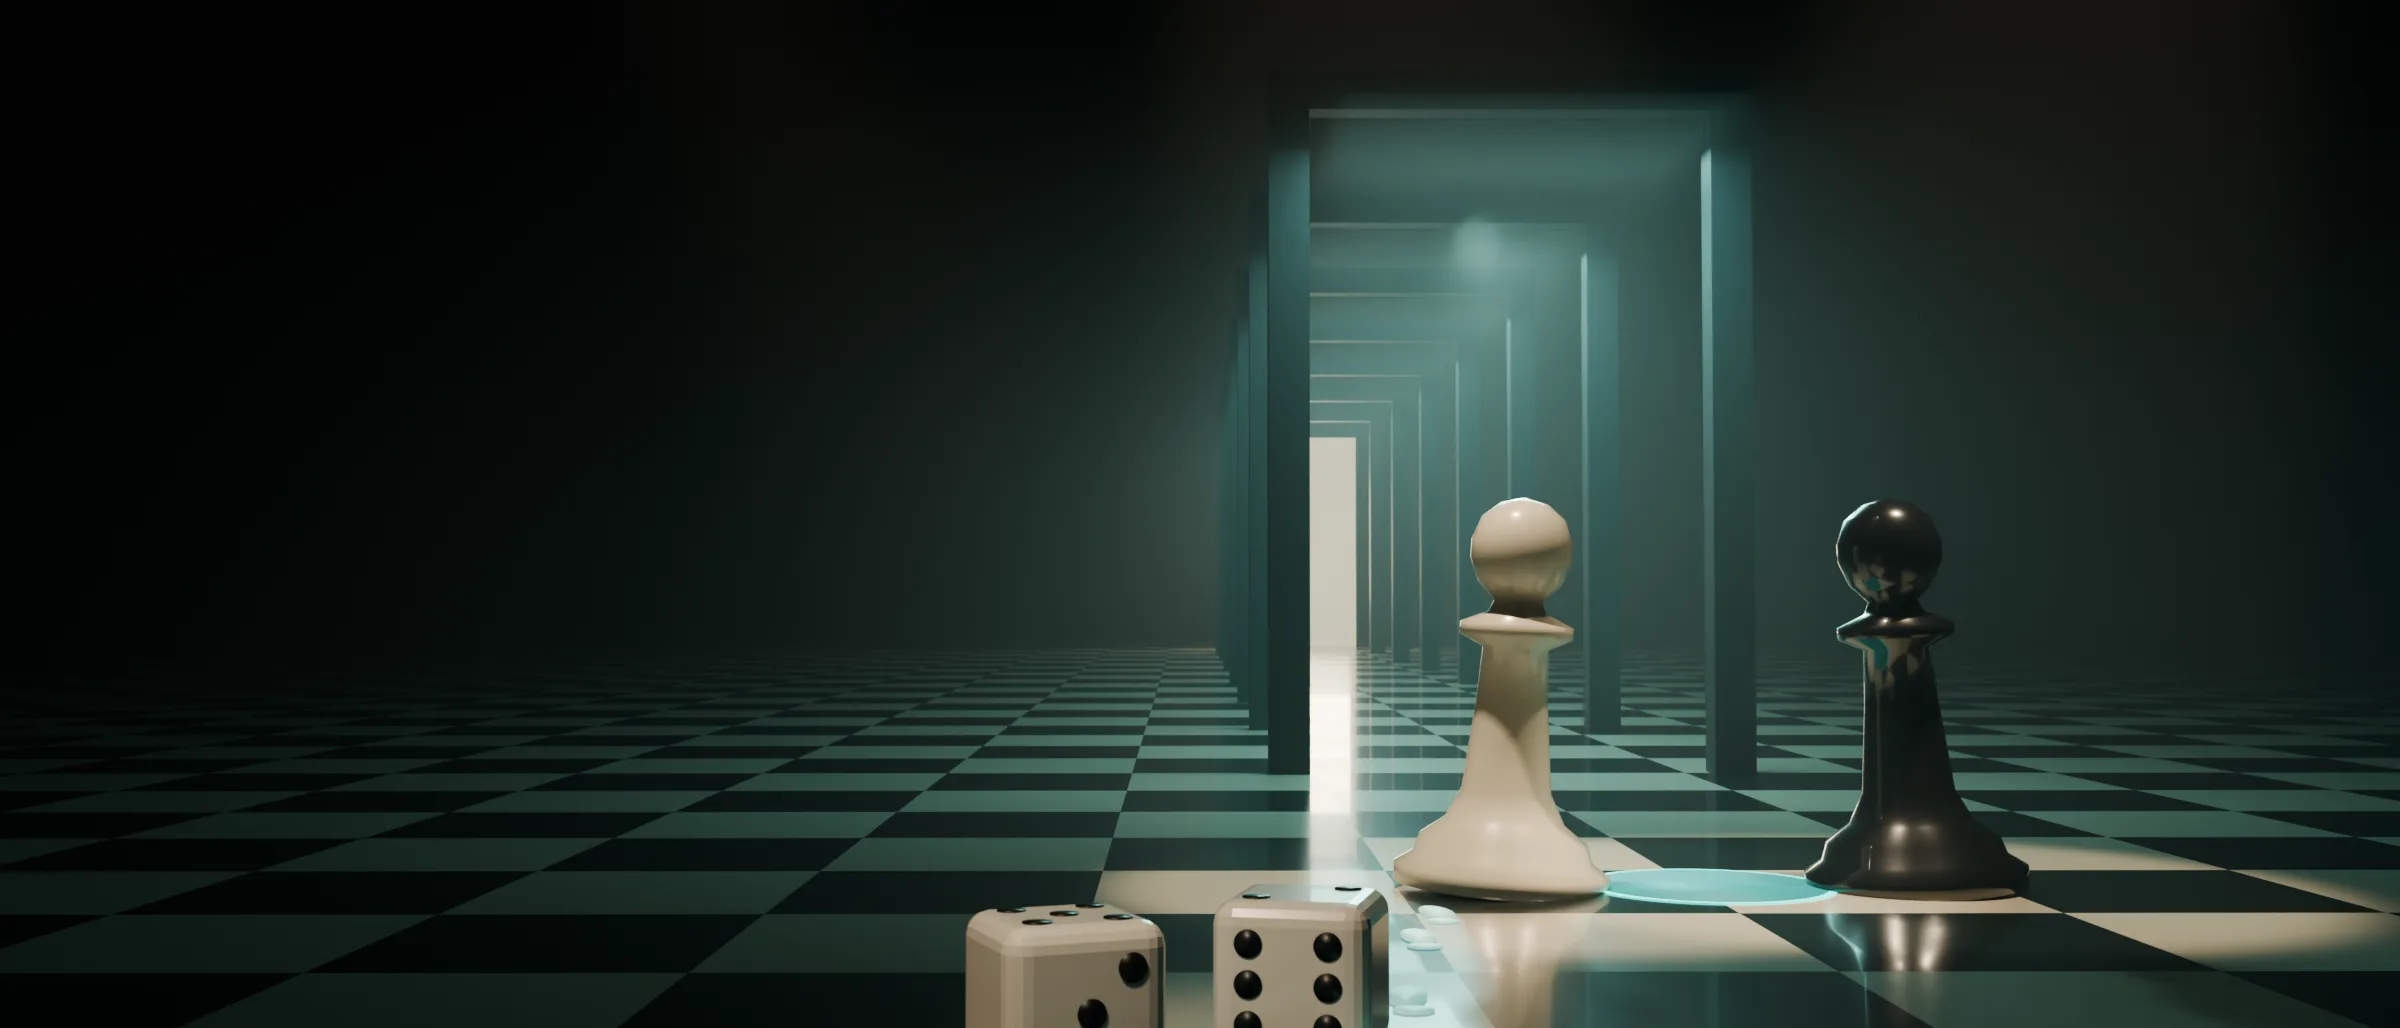
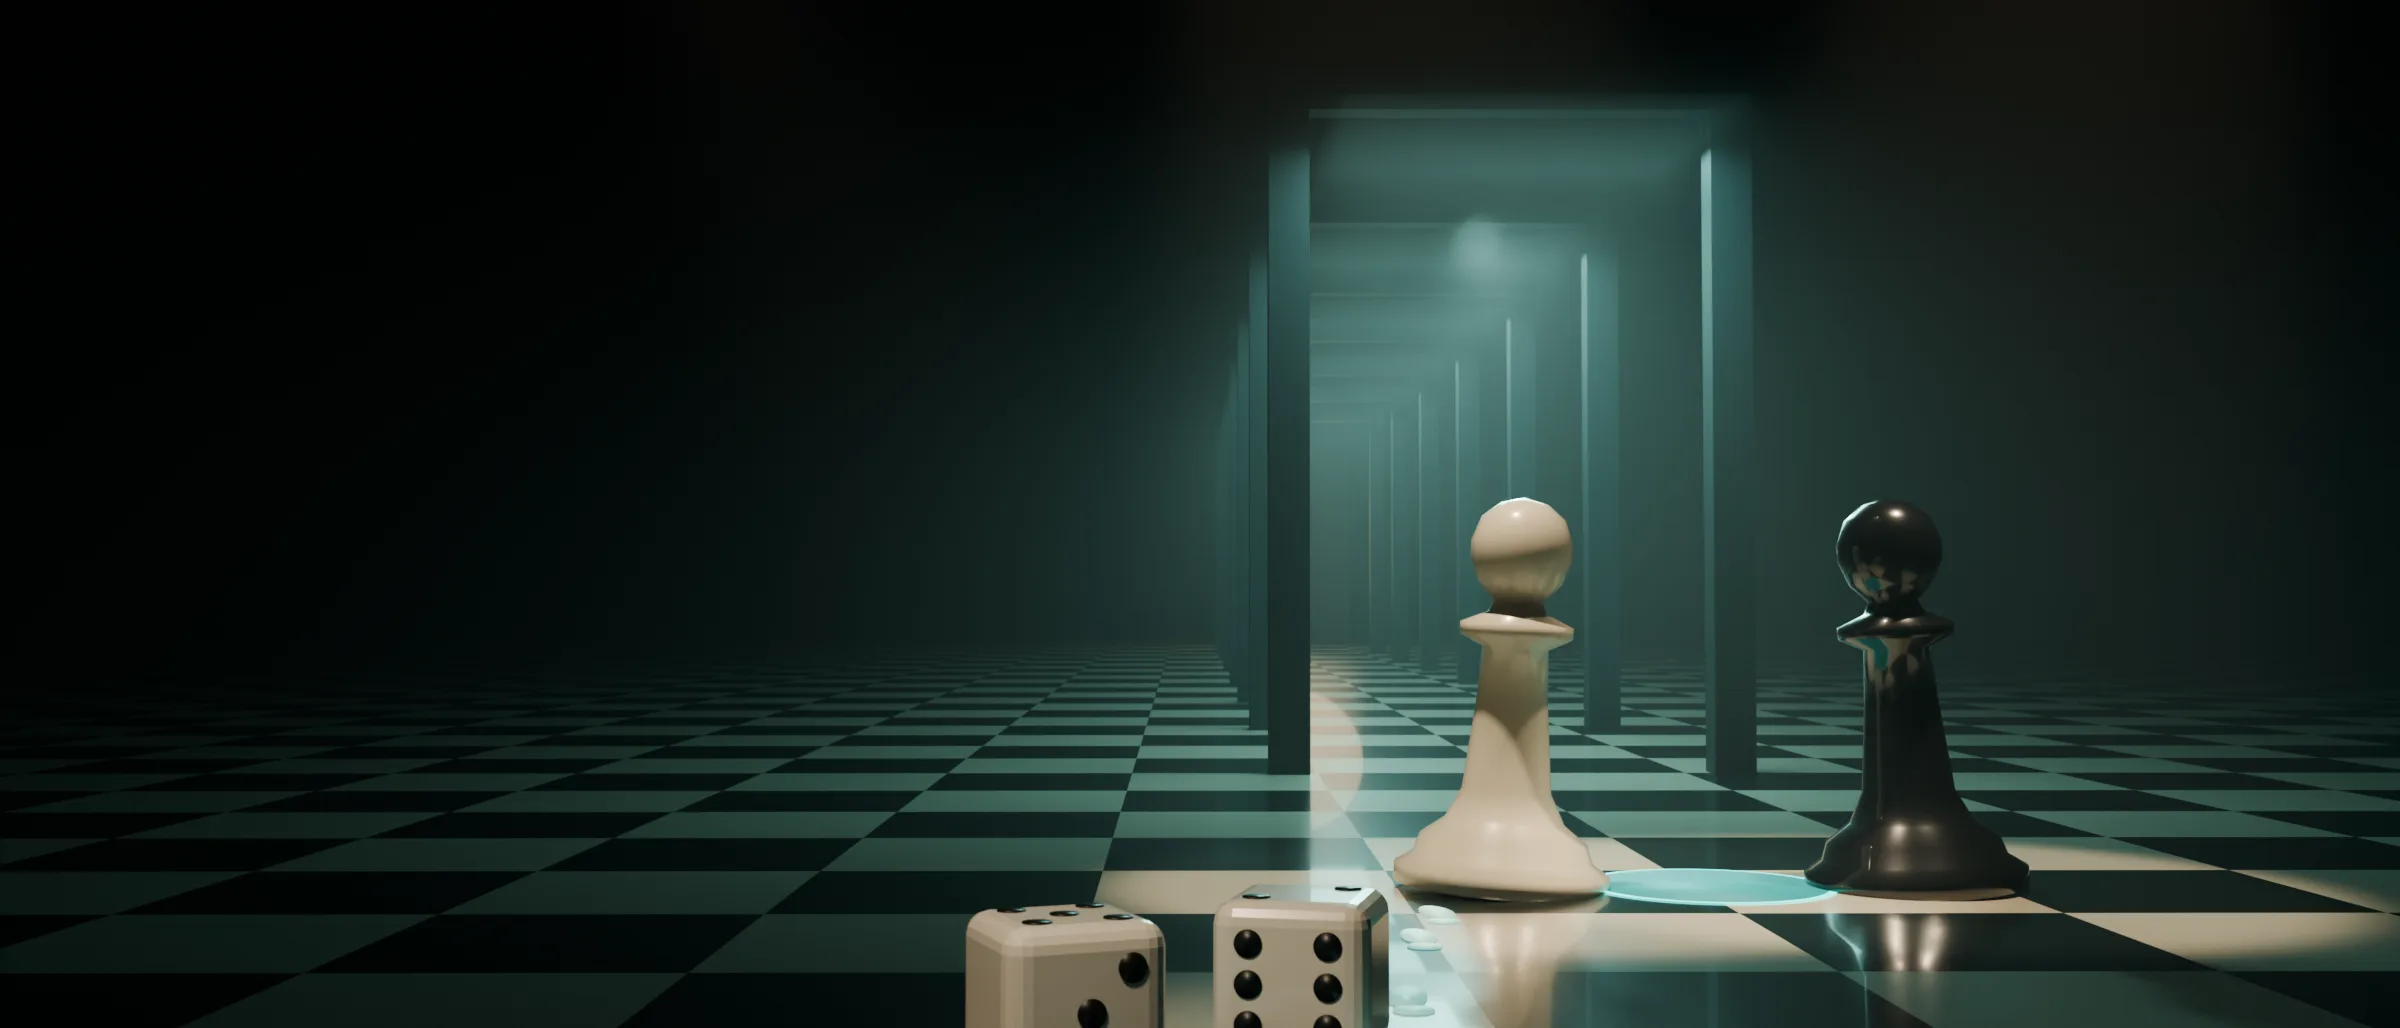
Header: replace the glowing doorway with haze; dark nav on the home page
- The exit is now only a warm light blooming through the haze behind a
  dark wall, so there is no bright hard-edged shape in the image
- On the home page the nav bar and the phone browser's theme colour go
  dark to flow into the header image; other pages keep the cream header

Changed region(s): [[0.5312, 0.4047, 0.5938, 0.8716], [0.4688, 0.6226, 0.5, 0.6537]]

diff --git a/public/css/styles.css b/public/css/styles.css
@@ -97,6 +97,14 @@ body::before { content: ""; position: fixed; inset: 0 0 auto; height: env(safe-a
 .site-nav a { color: var(--muted); text-decoration: none; font-size: var(--t-sm); font-weight: 560; padding: 8px 10px; border-radius: 8px; white-space: nowrap; }
 .site-nav a:hover { color: var(--ink); background: var(--surface); }
 .site-nav a[aria-current="page"] { color: var(--ink); background: var(--surface); box-shadow: inset 0 0 0 1px var(--line); }
+body.on-home::before { background: var(--cine); }
+body.on-home .site-head { background: color-mix(in srgb, var(--cine) 94%, transparent); border-bottom-color: rgba(255,255,255,.08); }
+body.on-home .wordmark { color: var(--cine-ink); }
+body.on-home .wordmark svg { fill: var(--cine-ink); }
+body.on-home .wordmark .wm-l { fill: var(--cine-accent); }
+body.on-home .site-nav a { color: rgba(242,243,245,.74); }
+body.on-home .site-nav a:hover { color: #fff; background: rgba(255,255,255,.08); }
+body.on-home .site-nav a:focus-visible { outline-color: var(--cine-accent); }
 
 /* ───────── Type helpers */
 .eyebrow { font-family: var(--f-mono); font-size: var(--t-xs); letter-spacing: 0.08em; text-transform: uppercase; color: var(--muted); }

diff --git a/public/js/game.js b/public/js/game.js
@@ -544,6 +544,10 @@
     const views = { home: viewHome, bench: viewBench, play: viewPlay, profile: viewProfile };
     app.innerHTML = views[ui.view]();
     document.querySelectorAll('[data-nav]').forEach(a => a.setAttribute('aria-current', a.dataset.nav === ui.view ? 'page' : 'false'));
+    // The home page opens on a dark image, so its nav bar and the phone's browser bar go dark to match.
+    document.body.classList.toggle('on-home', ui.view === 'home');
+    const light = document.querySelector('meta[name="theme-color"][media*="light"]');
+    if (light) light.content = ui.view === 'home' ? '#0e1014' : '#f6f1e7';
     const sc = ui.view === 'play' ? LIST[currentIndex()] : null;
     document.title = (sc ? `${sc.title} · ` : ui.view === 'bench' ? 'The Bench · ' : ui.view === 'profile' ? 'Profile · ' : '') + 'The Dance';
 

diff --git a/tools/blender/render_hero.py b/tools/blender/render_hero.py
@@ -5,7 +5,7 @@ Symbols, not words:
   two pieces, two spotlights  partly shared, partly conflicting interests (Schelling)
   teal glow where light overlaps  value that only exists together (Nalebuff)
   curve of dance steps        moves answered by moves (Axelrod)
-  receding doorways           the same meeting again and again; the lit exit is walking away (Aumann)
+  receding doorways           the same meeting again and again; the glow beyond is walking away (Aumann)
   dice in the foreground      you never know everything (Duke)
 
 Run:
@@ -218,16 +218,15 @@ for i in range(7):
     ld.size = 2.0
     o = link(bpy.data.objects.new(f'door{i}', ld))
     o.location = (0.55, y - 0.4, 3.4)
-# The exit glows softly through the haze rather than burning to white.
-exit_light = mat('exit', '#e8dcc6', 0.5, emit='#f3dfbf', strength=1.6)
-ld = bpy.data.lights.new('exit-glow', 'AREA')
-ld.energy = 260
-ld.color = lin('#f3dfbf')[:3]
-ld.size = 2.0
+# The exit is only light: a warm glow blooming through the haze at the end of the corridor,
+# with a dark back wall, so there is no hard bright shape to pull the eye.
+box('exit', (0.55, 6.0 + 7 * 3.6 + 1.5, 1.8), (2.3, 0.05, 3.6), mat('exit', '#1d2527', 0.8))
+ld = bpy.data.lights.new('exit-glow', 'POINT')
+ld.energy = 140
+ld.color = lin('#e9c79a')[:3]
+ld.shadow_soft_size = 1.2
 eg = link(bpy.data.objects.new('exit-glow', ld))
-eg.location = (0.55, 6.0 + 7 * 3.6 - 0.6, 1.8)
-eg.rotation_euler = (math.radians(-90), 0, 0)
-box('exit', (0.55, 6.0 + 7 * 3.6, 1.8), (2.3, 0.05, 3.6), exit_light)
+eg.location = (0.55, 6.0 + 7 * 3.6 - 0.8, 1.9)
 
 # Dice at rest in the foreground.
 die = mat('die', '#f2efe8', 0.25, coat=0.5)
